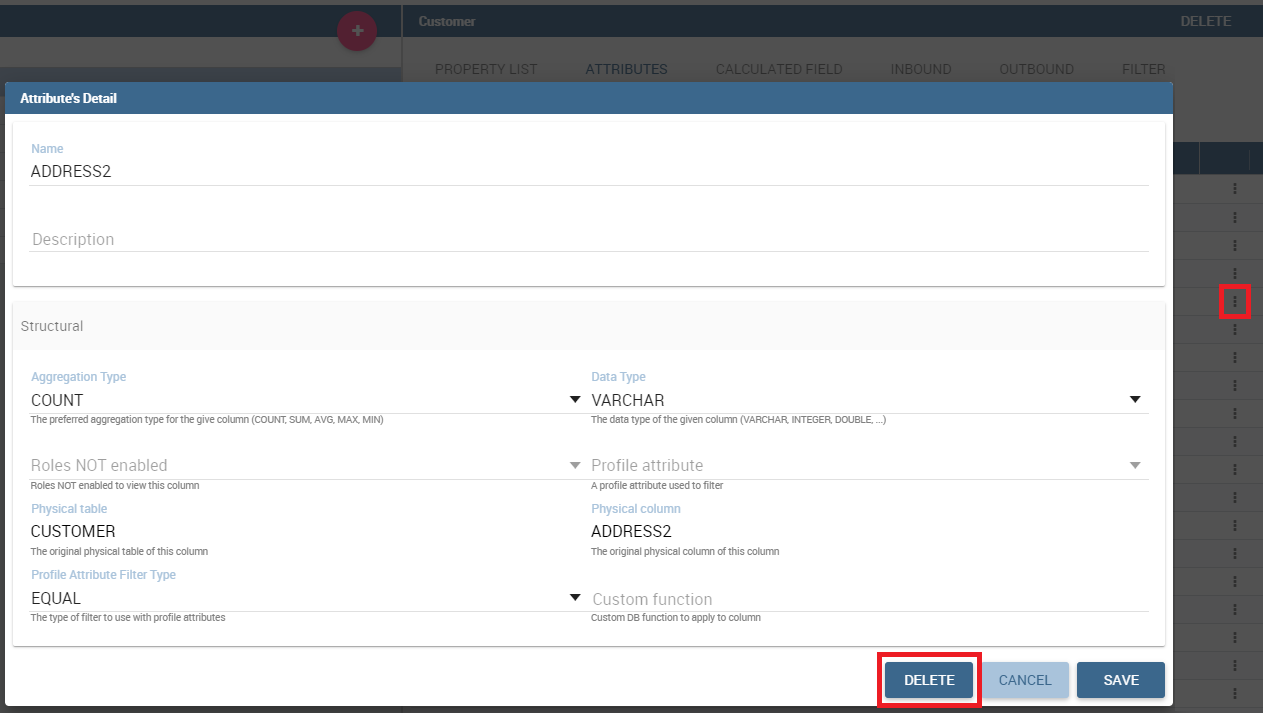
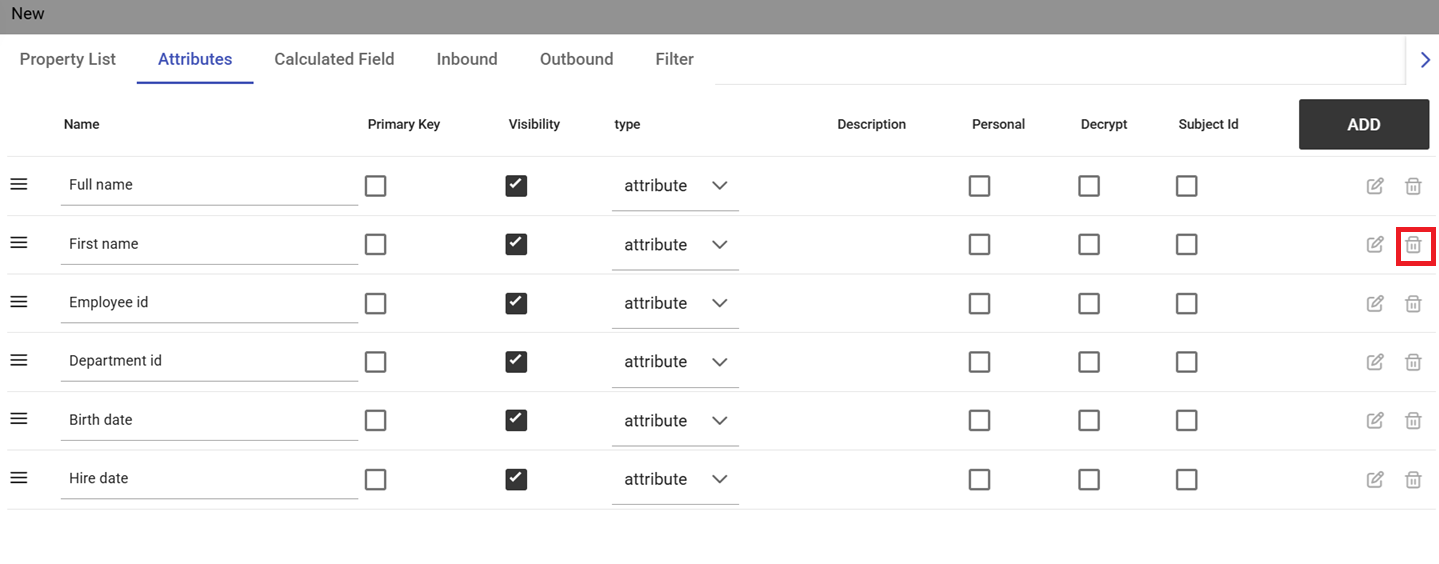
fix_bm_006

diff --git a/chapter_3/create_qbe/meta.rst b/chapter_3/create_qbe/meta.rst
@@ -315,17 +315,15 @@ If you did not choose all columns from physical table, when you were creating ne
 
 .. figure:: media/addNewBusinessColumn.png
 
-	Remove existing column from business class
+	Remove existing columns from business class
 
-If you want to remove column from business table, you need to click on business class from which you want to remove column. Open Attributes tab and click on three dots of column you want to delete. It will open details panel. Click on delete button.
-
+If you want to remove columns from a business table just click the *Trash* icon.
 .. figure:: media/deleteBusinessColumn.png
 
 	Change the order of the columns
 
-If you want to change order of columns, you can do it using drad and drop functionality.
+To change order of columns, you can do it just by using the drag and drop functionality.
 
-.. figure:: media/columnDragDrop.png
 
 Generate the datamart
 ~~~~~~~~~~~~~~~~~~~~~~~~~~~~~~~~~~~~~~~~~~~~~~~~~~~~~~~~~~~~~~~~~~~~~~~~~~~~~~~~~~~~~~~~~~~~~~~~~~~~~~~~~~~~~~~~~~~~~~~~
